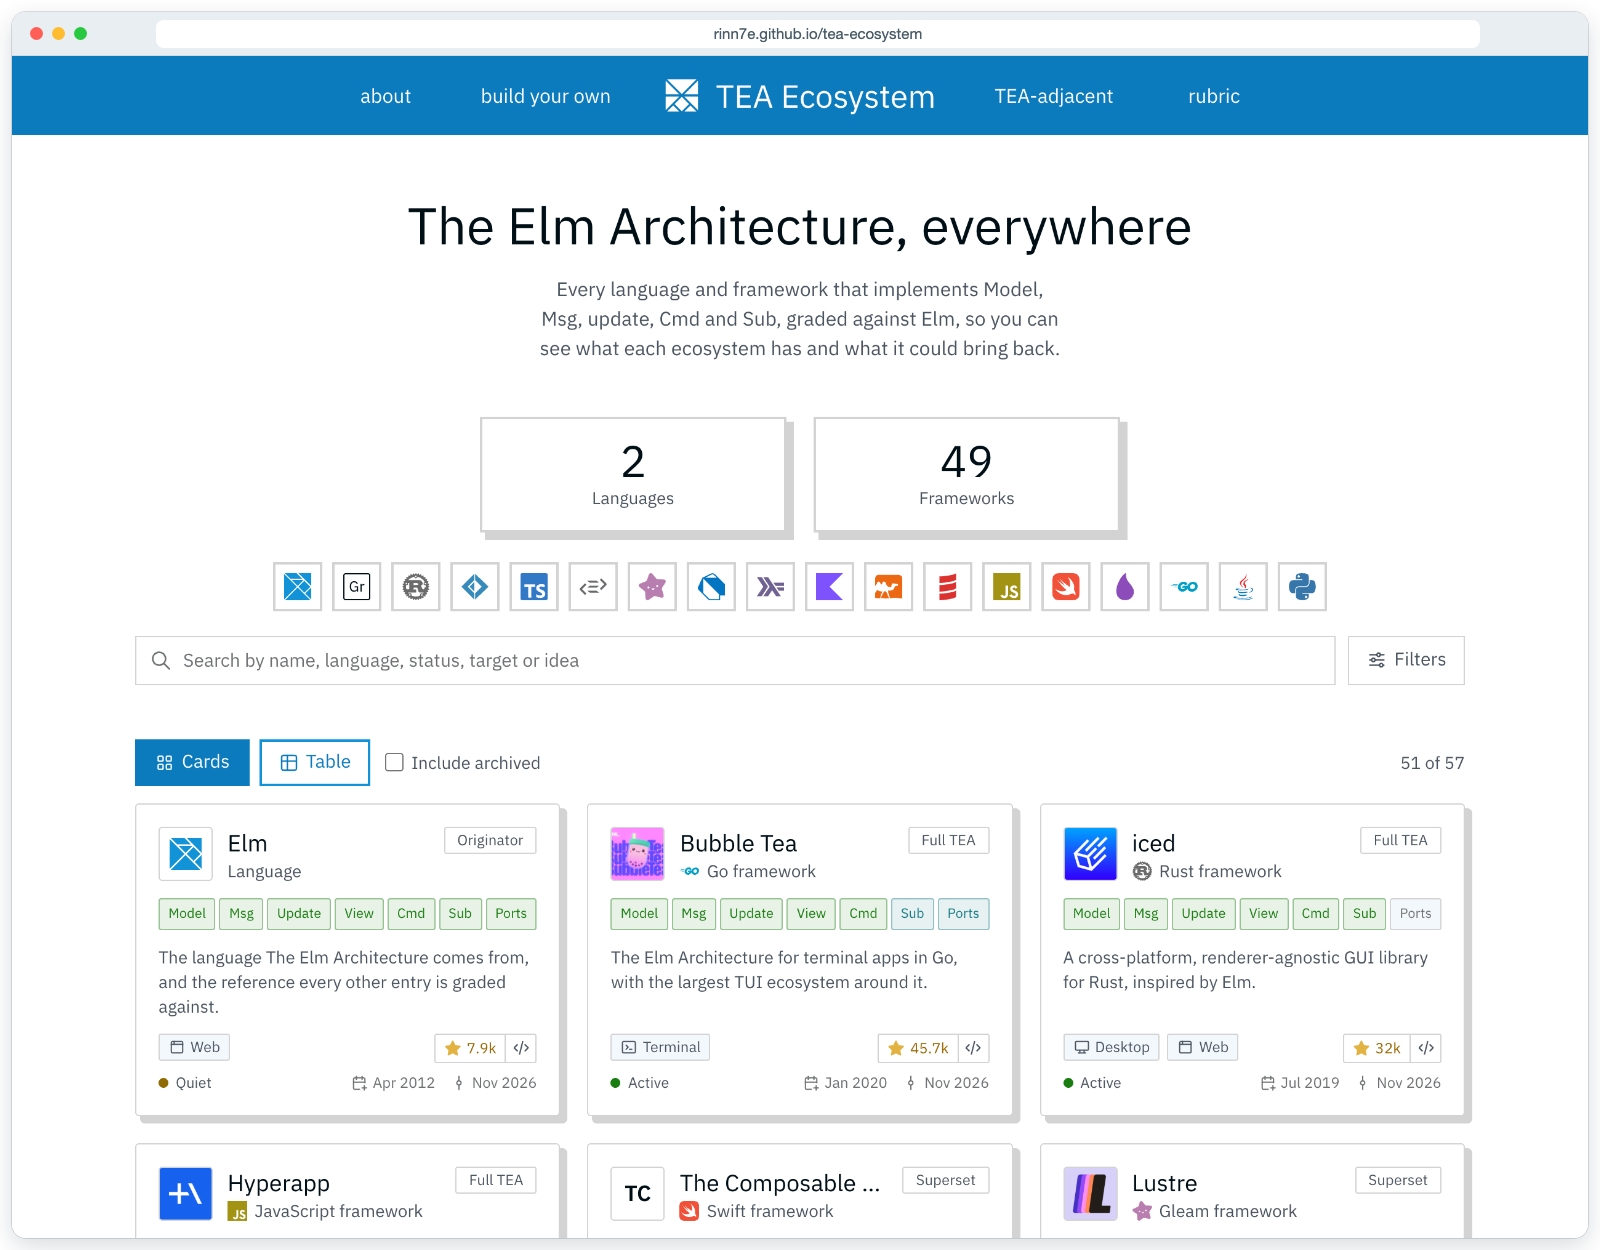
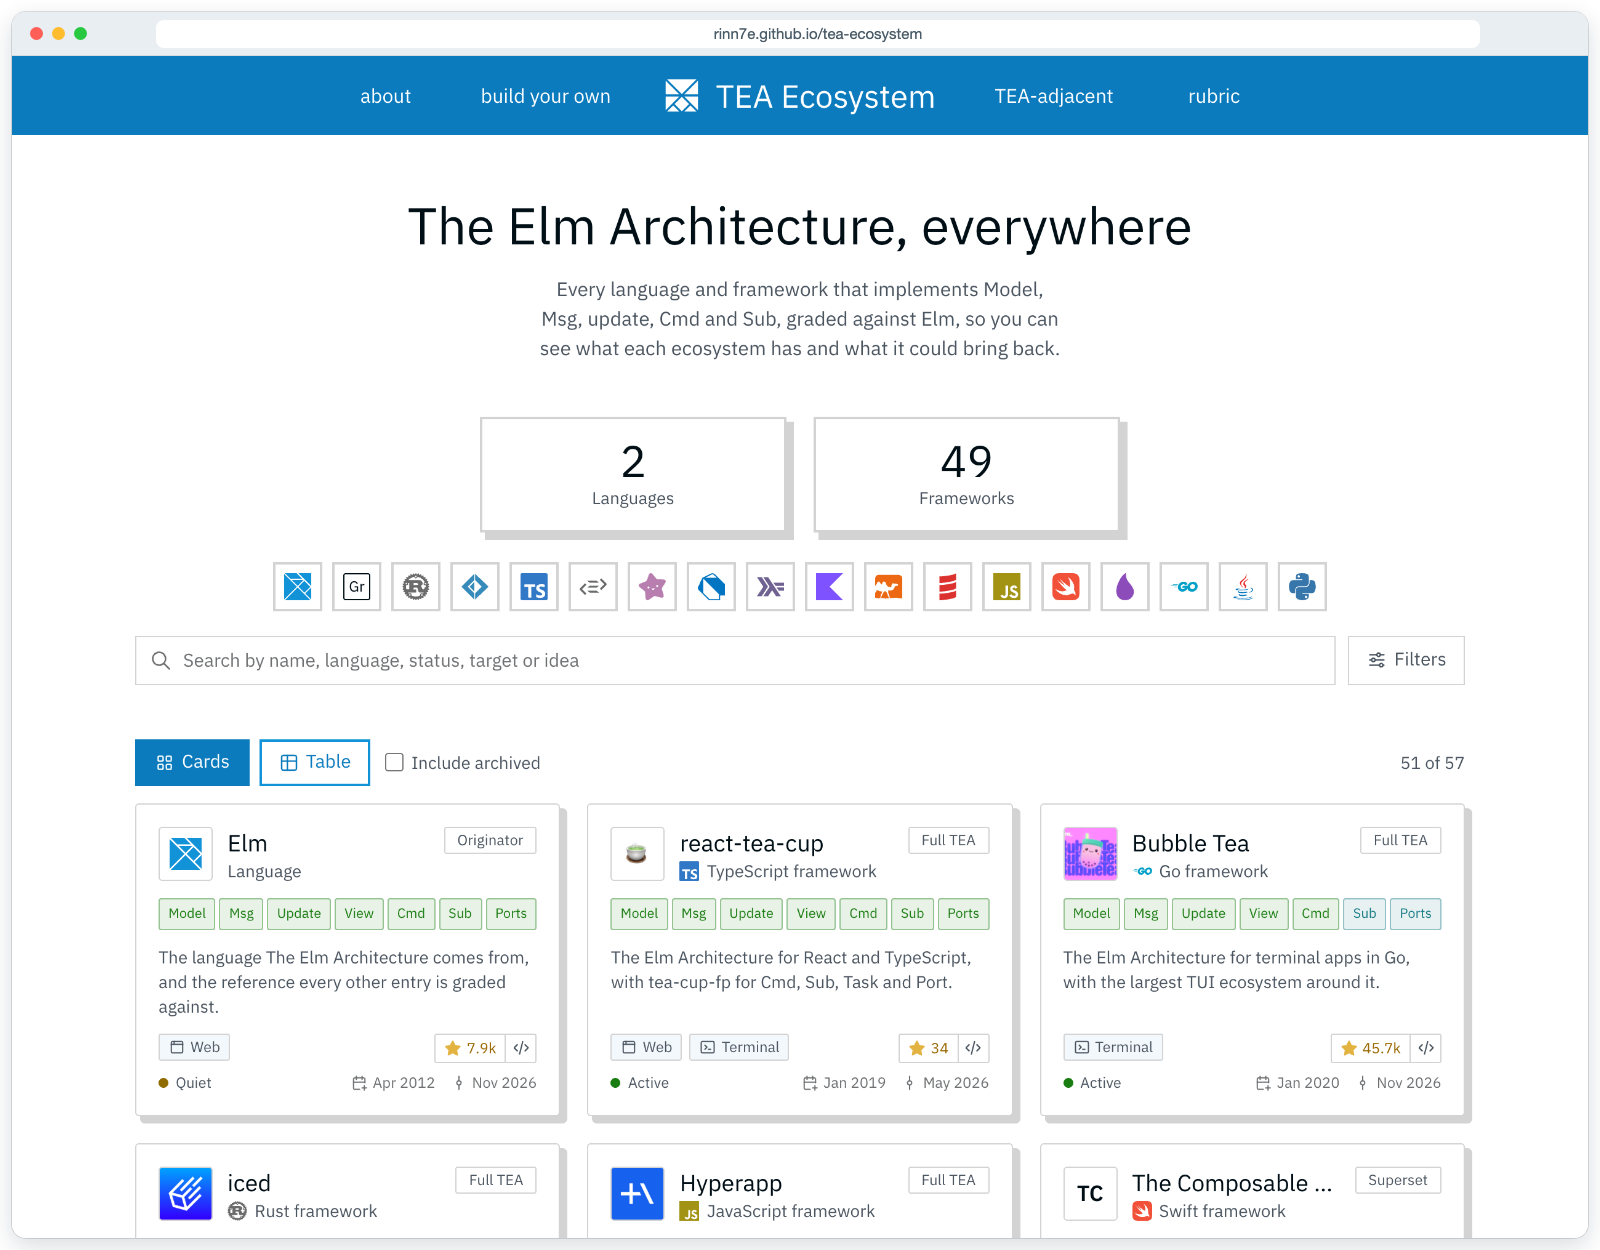
Put react-tea-cup right after Elm in both lists
react-tea-cup, the library this site is built with, is the pick of the
maintainer: the default order is now the Originator, then react-tea-cup,
then the most starred. A column chosen in the table still sorts all of
them. The screenshot of the README shows the new first row.

diff --git a/src/common/data/catalog.ts b/src/common/data/catalog.ts
@@ -33,12 +33,21 @@ export const decodeOrThrow =
       }),
     )
 
-// The Originator (Elm) first, then the most starred, then by name. An
-// entry with no GitHub repository has no stars and comes last.
+// The pick of the maintainer, right after the Originator: react-tea-cup,
+// the library this site is built with
+const MAINTAINER_PICK = 'react-tea-cup'
+
+// The Originator (Elm) first, then the pick of the maintainer, then the
+// most starred, then by name. An entry with no GitHub repository has no
+// stars and comes last.
 const frameworkOrd: Ord.Ord<Framework> = concatAll(Ord.getMonoid<Framework>())([
   pipe(
     Ord.reverse(B.Ord),
     Ord.contramap((f: Framework) => f.tier === 'reference'),
+  ),
+  pipe(
+    Ord.reverse(B.Ord),
+    Ord.contramap((f: Framework) => f.id === MAINTAINER_PICK),
   ),
   pipe(
     Ord.reverse(N.Ord),

diff --git a/tests/common/data/catalog.test.ts b/tests/common/data/catalog.test.ts
@@ -60,6 +60,13 @@ describe('data files', () => {
     ).toEqual(['elm'])
   })
 
+  it('keep react-tea-cup right after Elm, as the pick of the maintainer', () => {
+    expect(frameworks.slice(0, 2).map((f) => f.id)).toEqual([
+      'elm',
+      'react-tea-cup',
+    ])
+  })
+
   it('name a logo file that exists in public/logo', () => {
     const missing = [...frameworks, ...adjacentEntries].filter(
       (f) =>

diff --git a/src/common/type/destination/type.ts b/src/common/type/destination/type.ts
@@ -72,7 +72,7 @@ export type ListingFilter = {
   includeArchived: boolean
   layout: ListingLayout
   // A column chosen in the table header; none keeps the order of the list
-  // (the Originator first, then the most starred)
+  // (the Originator first, then react-tea-cup, then the most starred)
   sort: Option<ListingSort>
 }
 

diff --git a/doc/code-convention.md b/doc/code-convention.md
@@ -100,7 +100,7 @@ A fact with an owner gets a type only its owner makes, so a write that skips the
 - Every framework must hold the rules of its tier (`rubricProblemsOf`): full TEA needs Model, Msg, update and Cmd `native` and Sub `native` or `managed`; a superset may have `equivalent` for update, Cmd and Sub. A library that fails goes to `data/adjacent.json` with the requirement it misses and why.
 - An `id` is the URL segment of the page (`/framework/<id>`): lowercase words joined by `-`, unique across both files, never renamed.
 - `verified: true` only when every grade of the entry was checked against its docs or source.
-- `repo` is the full URL of the public repository of the entry (`https://<host>/<owner>/<name>`), on any host: GitHub, GitLab, Codeberg or another Gitea. Check the README and the registry page (crates.io, pub.dev) for it before leaving it out, and leave it out only when the source is not public (hojicha: a Gitea that needs a sign-in). `stars`, `createdAt` and `updatedAt` (the day of the last push, or of the last activity on GitLab and Gitea) come from it: refresh them with `GITHUB_TOKEN=<token> node scripts/fetch-repo-stats.mjs`, then `pnpm run format`. Both lists show Elm (the Originator) first, then the most starred; an entry without `repo` has no stars and comes last.
+- `repo` is the full URL of the public repository of the entry (`https://<host>/<owner>/<name>`), on any host: GitHub, GitLab, Codeberg or another Gitea. Check the README and the registry page (crates.io, pub.dev) for it before leaving it out, and leave it out only when the source is not public (hojicha: a Gitea that needs a sign-in). `stars`, `createdAt` and `updatedAt` (the day of the last push, or of the last activity on GitLab and Gitea) come from it: refresh them with `GITHUB_TOKEN=<token> node scripts/fetch-repo-stats.mjs`, then `pnpm run format`. Both lists show Elm (the Originator) first, then `react-tea-cup` (the pick of the maintainer, and the library the site is built with), then the most starred; an entry without `repo` has no stars and comes last.
 - `data/snippet/<id>.<extension>` is the example of an entry, shown highlighted on its page (the extension picks the grammar, `src/common/data/snippet.ts`), and `snippetSource` is the URL it was copied from. Copy it from the entry's own README, docs or official examples, never from memory: cut lines that are not about the loop (imports, setup, comments), keep the rest as written, and stay near 40 lines. An entry whose own docs show no example has no file. The tests check that every file names an entry and every example has its source.
 - `logo` names a file in `public/logo/`: the project's own logo (the avatar of its own GitHub organization, or the logo of its README), square or with the mark in its centre. Never the avatar of a person or of a parent company. Without one, the tile shows a monogram; a language entry (`isLanguageEntry`: Elm, Gren) shows its language logo from Simple Icons instead.
 - Text in the data is plain ASCII: no curly quotes, no long dashes, no apostrophes in contractions.
